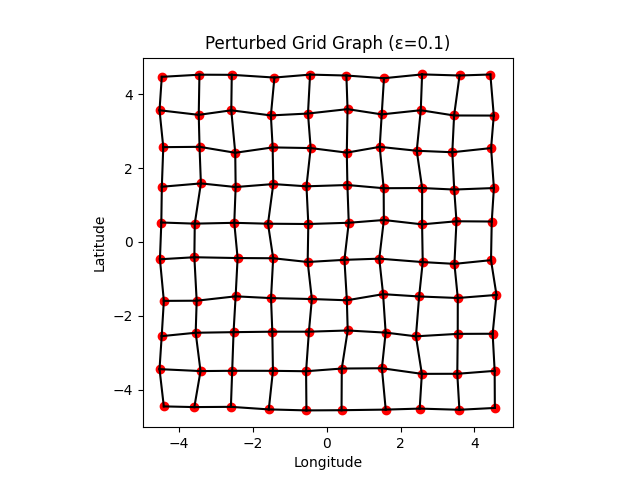
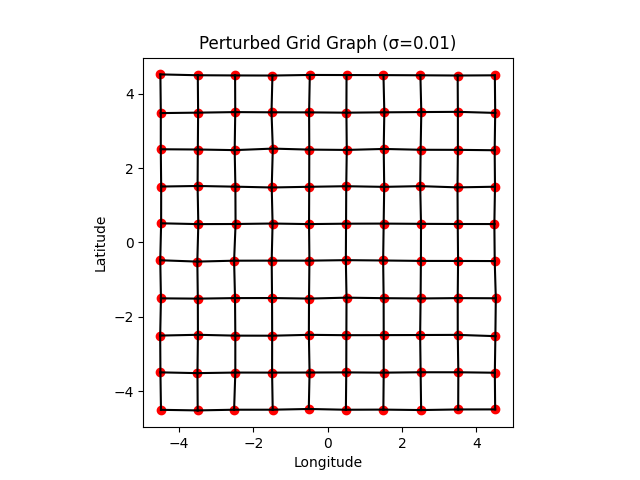
progress: simulation improved, using a normal truncated distribution instead of a uniform distribution

diff --git a/simulation-project/src/main.py b/simulation-project/src/main.py
@@ -4,13 +4,19 @@ import numpy as np
 import networkx as nx
 import matplotlib.pyplot as plt
 import pandas as pd
+from scipy.stats import truncnorm
 from shapely.geometry import LineString
 
-def perturb_graph(G, pos, epsilon=0.1):
-    """Perturb node positions randomly within a controlled range."""
-    return {node: (x + np.random.uniform(-epsilon, epsilon), 
-                   y + np.random.uniform(-epsilon, epsilon)) 
-            for node, (x, y) in pos.items()}
+def perturb_graph(G, pos, sigma):
+    """Perturb node positions using truncated normal distribution."""
+    a, b = -3, 3  # truncate to ±3σ
+    return {
+        node: (
+            x + truncnorm.rvs(a, b, loc=0, scale=sigma),
+            y + truncnorm.rvs(a, b, loc=0, scale=sigma)
+        )
+        for node, (x, y) in pos.items()
+    }
 
 def calculate_edge_attributes(G, pos):
     """Assign length, geometry, and bearing attributes to graph edges."""
@@ -77,21 +83,22 @@ def main():
     
     # Run perturbations with varying epsilon
     results = []
-    for i, epsilon in enumerate(np.arange(0.1, 1.1, 0.1), start=1):
-        perturbed_position = perturb_graph(G, initial_position, epsilon=epsilon)
+    sigmas = np.arange(0.01, 0.55, 0.01)
+
+    for i, sigma in enumerate(sigmas, start=1):
+        perturbed_position = perturb_graph(G, initial_position, sigma=sigma)
         perturbed_G = calculate_edge_attributes(G, perturbed_position)
         entropy_perturbed = ox.bearing.orientation_entropy(perturbed_G)
-        results.append([epsilon, entropy_perturbed])
+        results.append([sigma, entropy_perturbed])
         
-        # Save perturbed orientation plot
         fig, ax = ox.plot_orientation(perturbed_G)
         fig.savefig(f"{output_dir}/perturbed_orientation_{i}.png")
         plt.close(fig)
         
-        plot_graph(perturbed_G, perturbed_position, f"Perturbed Grid Graph (ε={epsilon:.1f})", f"{output_dir}/perturbed_grid_{i}.png")
+        plot_graph(perturbed_G, perturbed_position, f"Perturbed Grid Graph (σ={sigma:.2f})", f"{output_dir}/perturbed_grid_{i}.png")
     
     # Save results to Excel
-    df = pd.DataFrame(results, columns=["Epsilon", "Entropy"])
+    df = pd.DataFrame(results, columns=["Sigma", "Entropy"])
     df.to_excel(f"{output_dir}/entropy_results.xlsx", index=False)
     print("Simulation completed. Results saved in entropy_results.xlsx")
 
